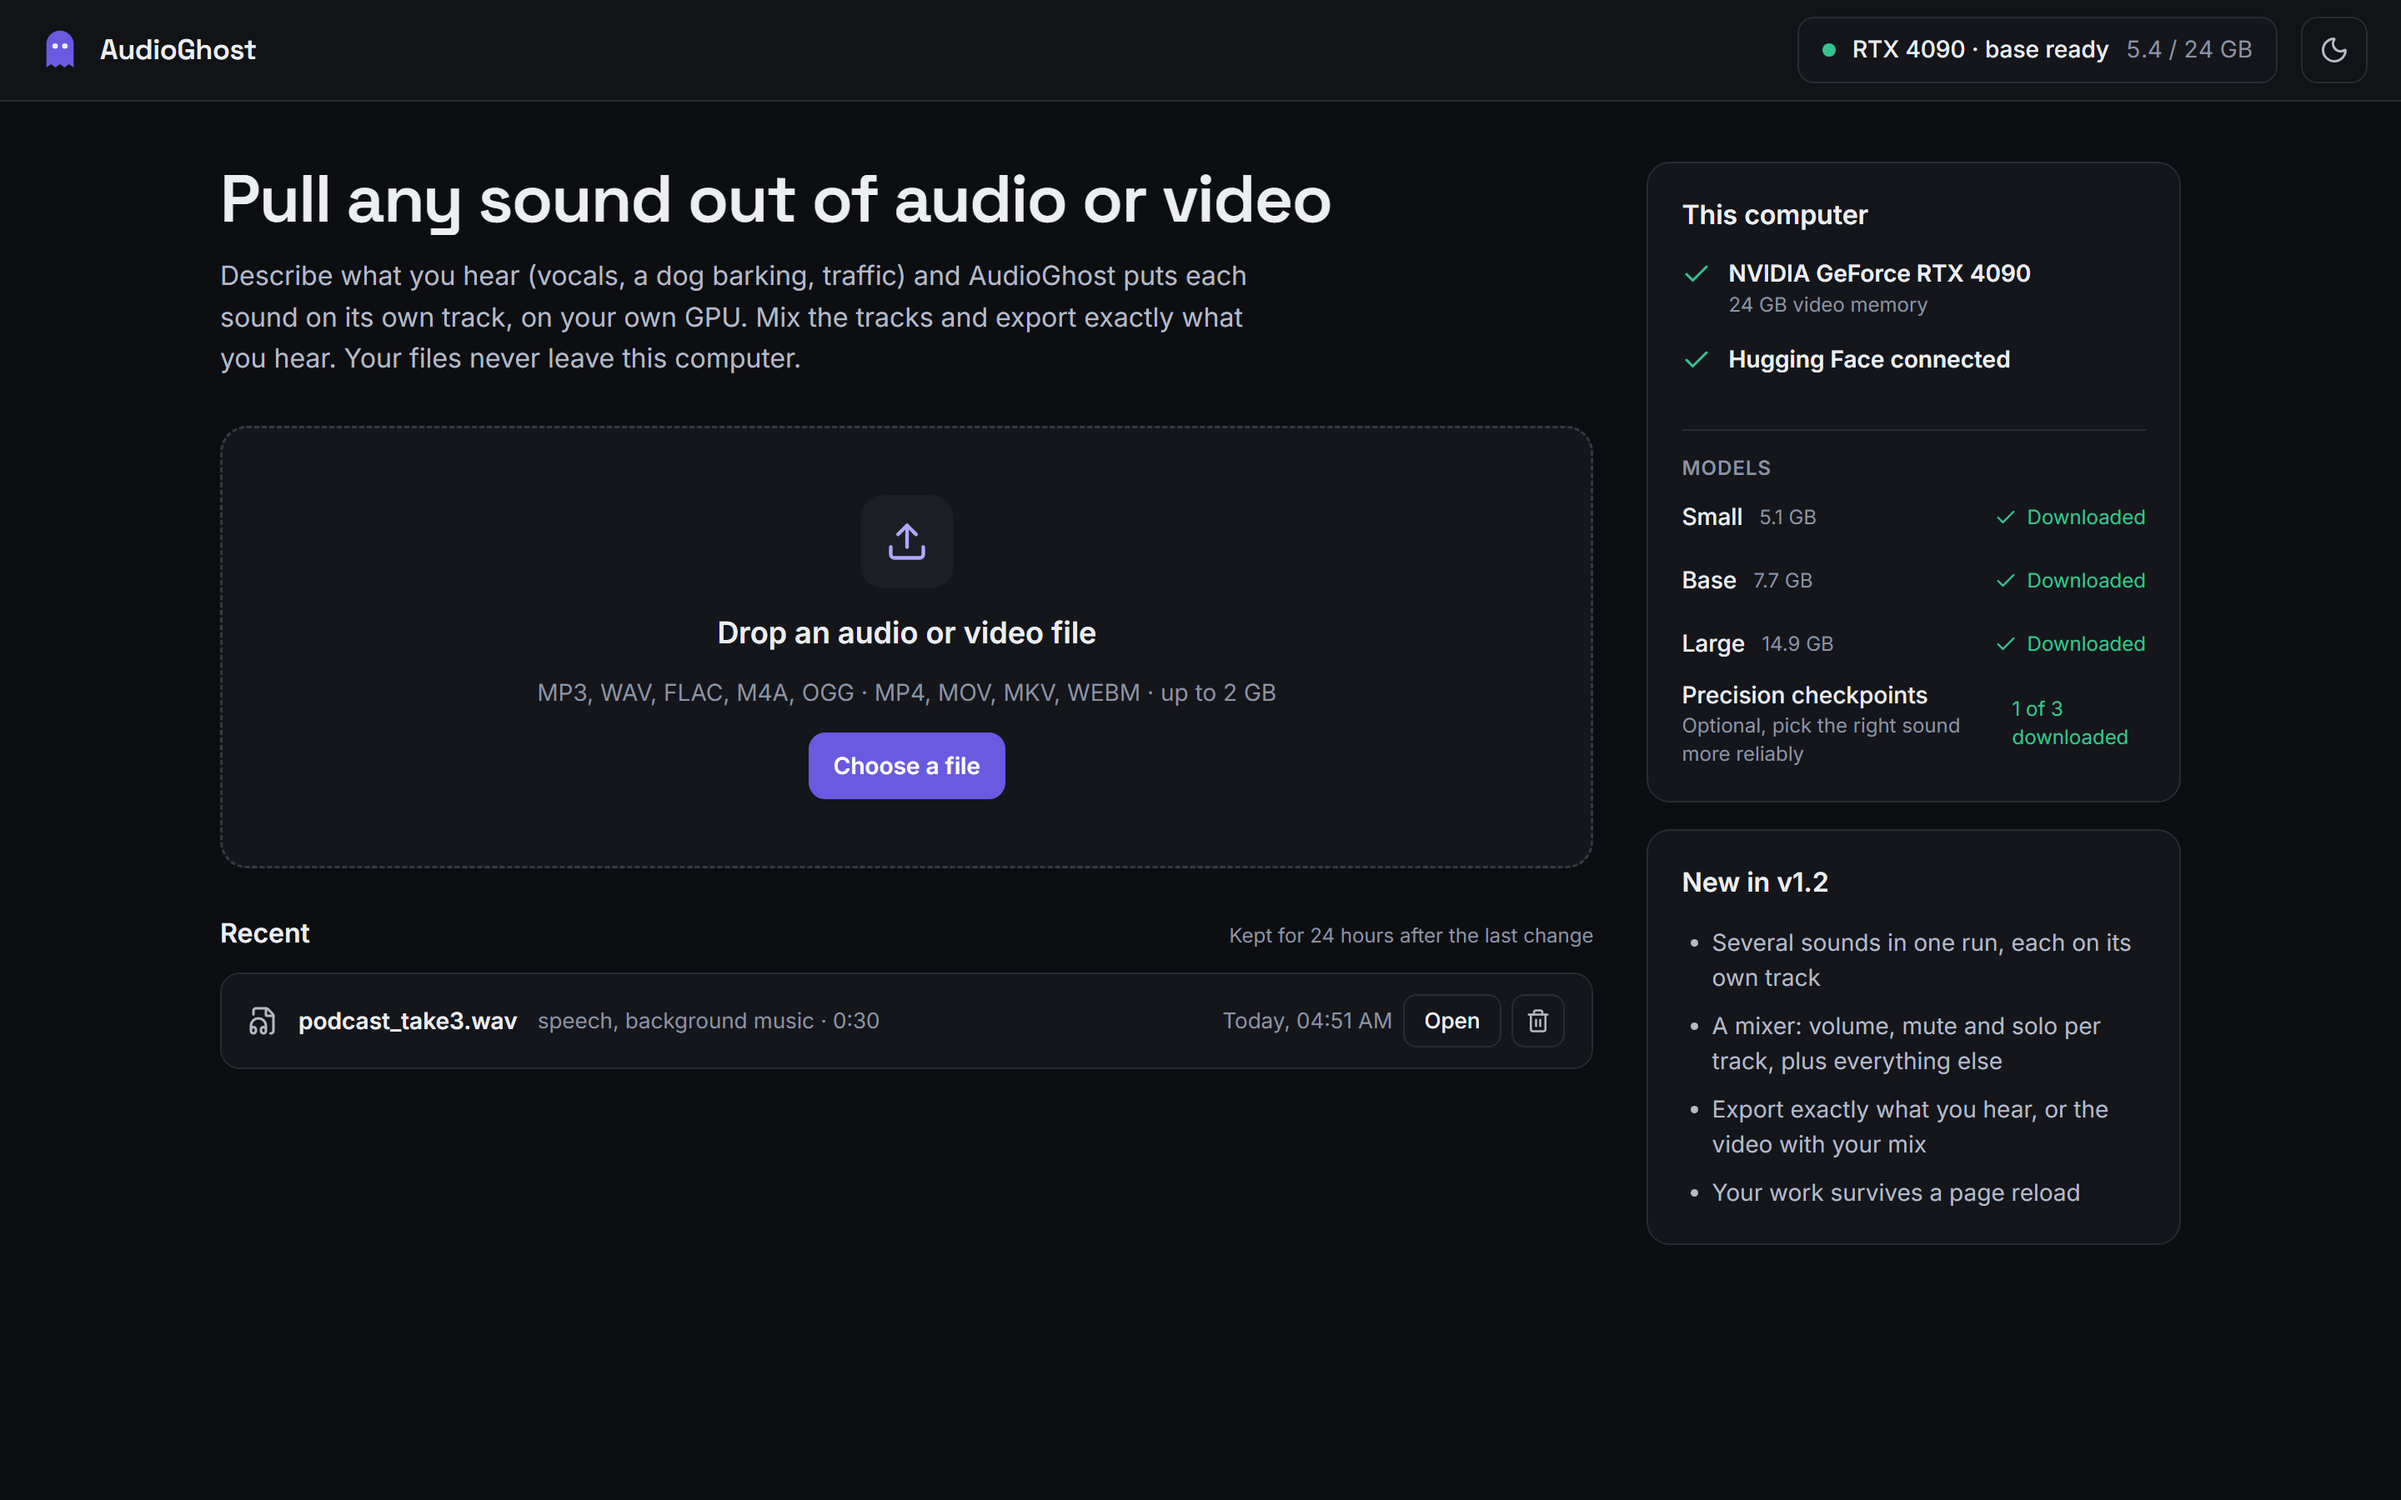
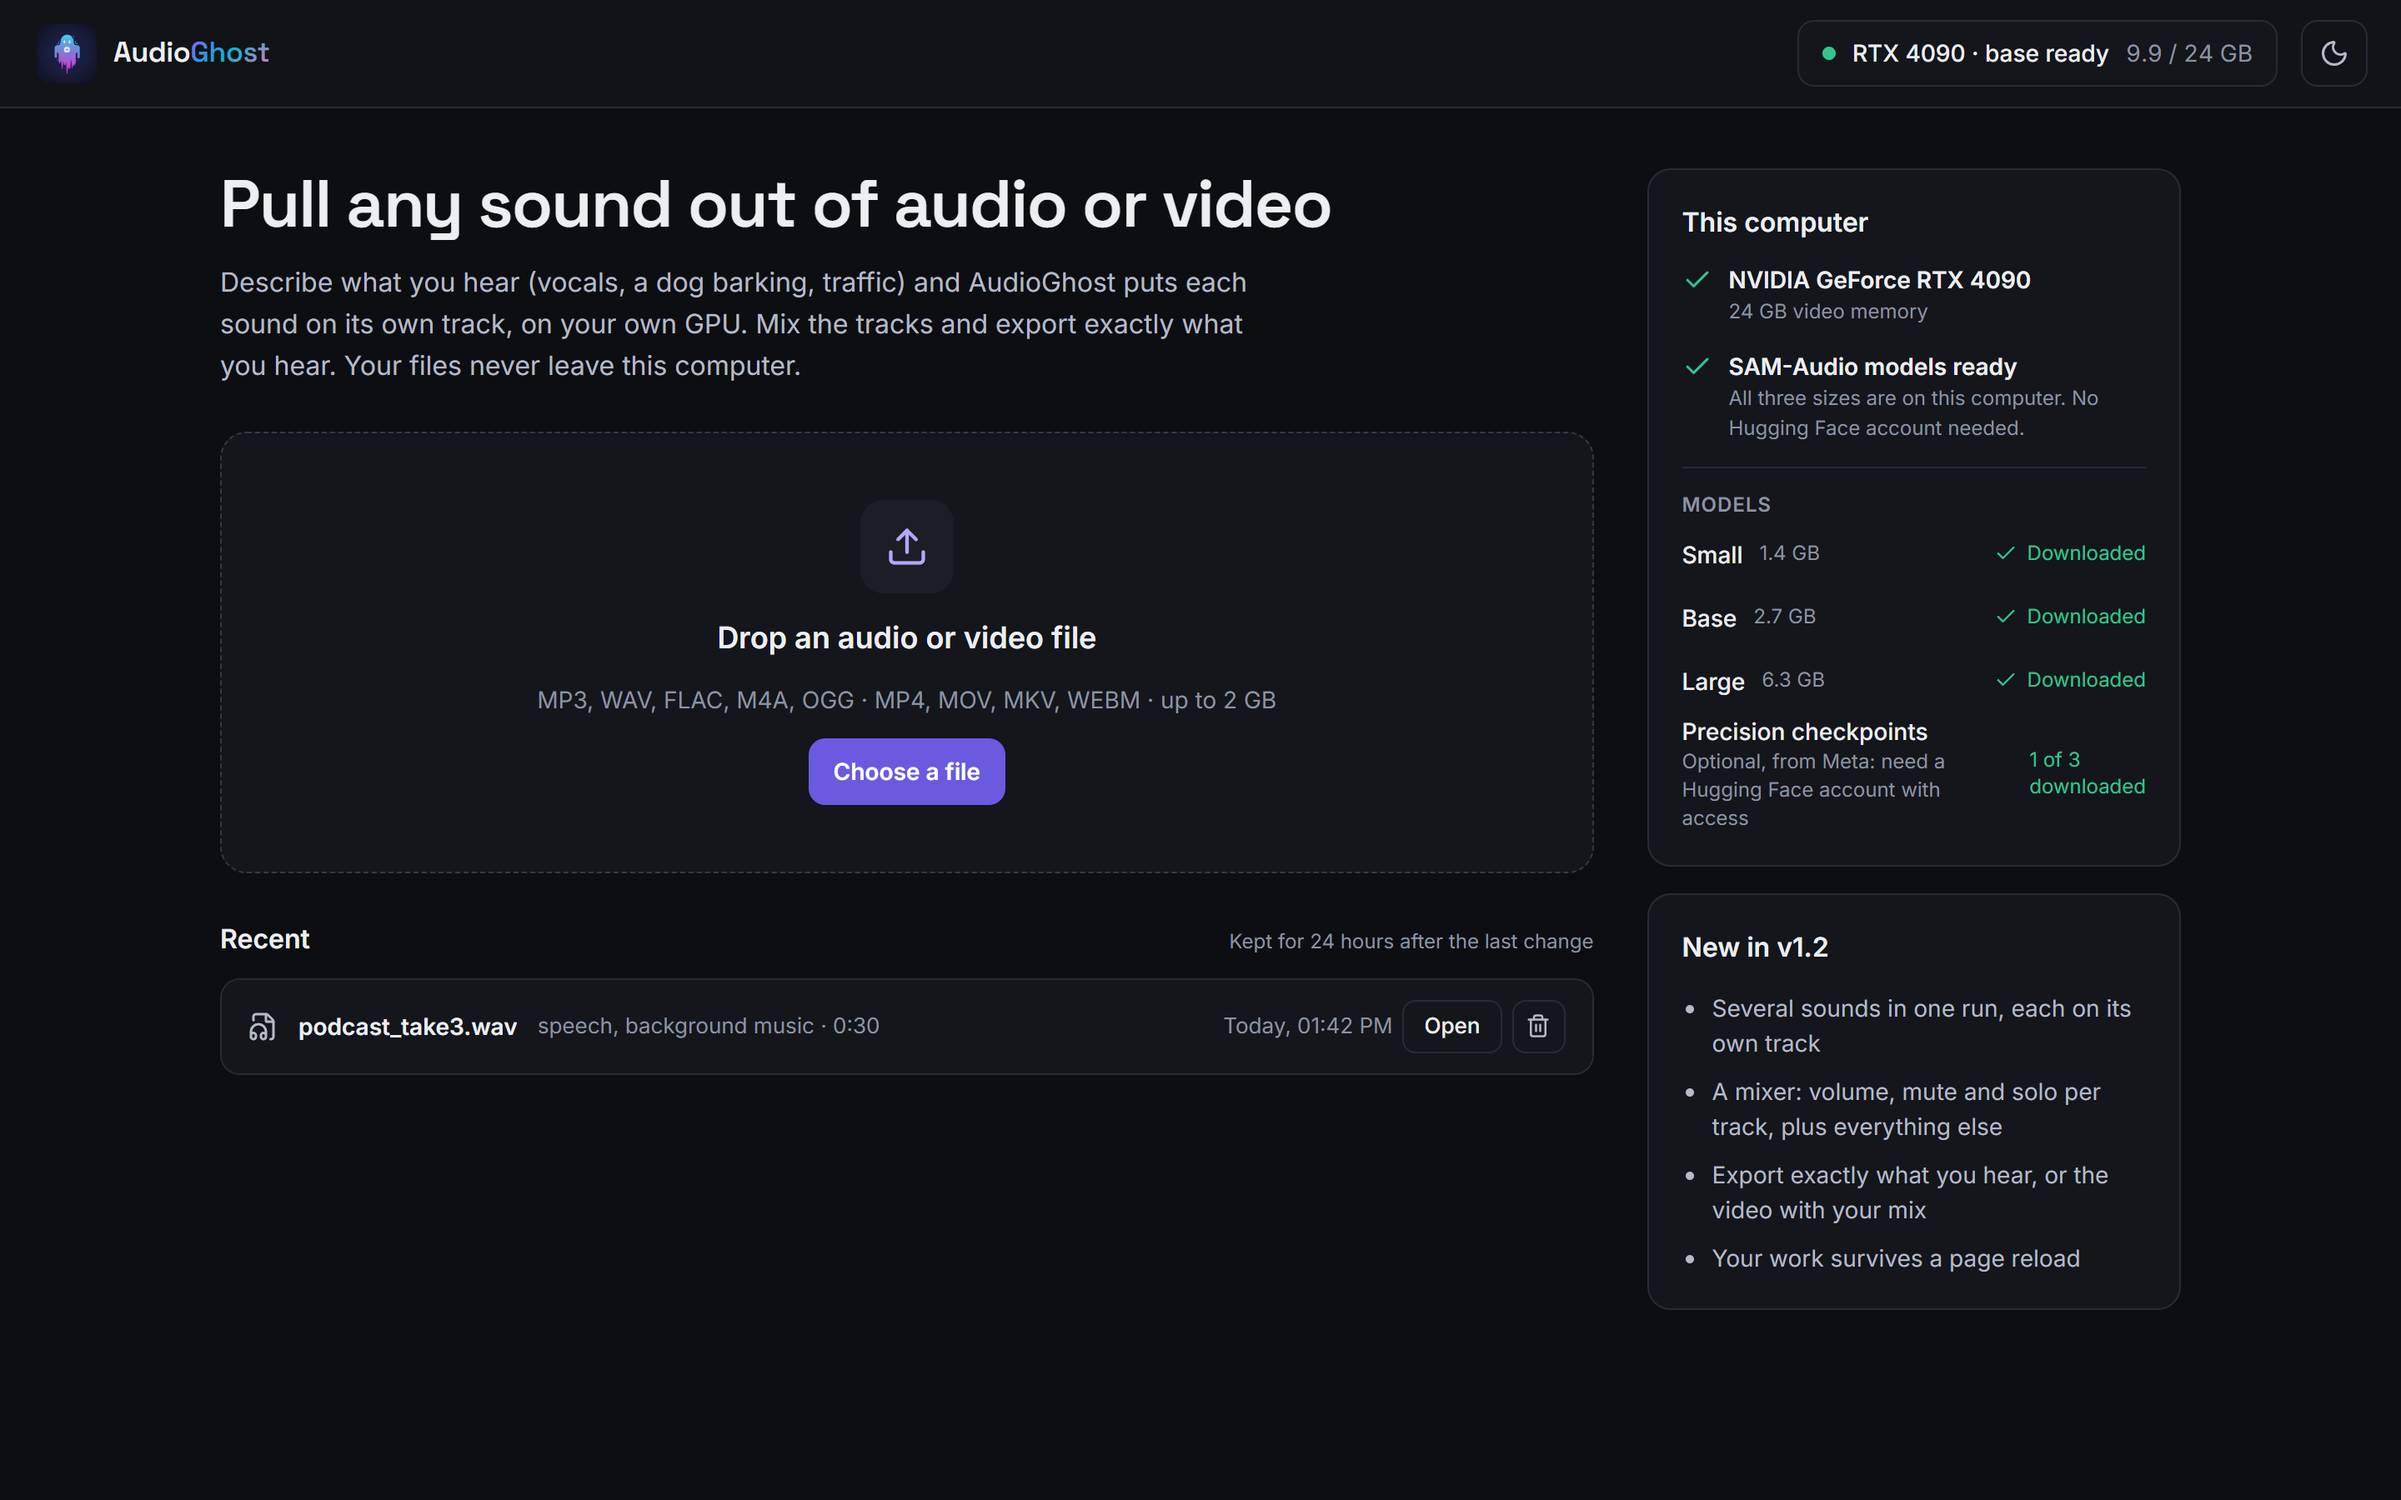
docs: model sizes for a Mac or CPU, new start-screen screenshot
A Mac or a CPU runs in fp32, so it downloads the fp32 files (2.4, 5.0
and 12.2 GB): the start screen shows those sizes there, and the docs say
so. With all three sizes on the computer the license row says that
instead of "download on first use". The README screenshot shows the new
license row in place of the Hugging Face one.

Claude-Session: https://claude.ai/code/session_01JUaA18KC21kPhN1CKR7oVM

diff --git a/frontend/src/components/StartScreen.tsx b/frontend/src/components/StartScreen.tsx
@@ -13,11 +13,12 @@ import { Button, ErrorText, IconButton, ProgressBar, SectionLabel } from "./ui";
 const ACCEPT =
   "audio/*,video/*,.mp3,.wav,.flac,.m4a,.ogg,.opus,.aac,.mp4,.mov,.mkv,.webm,.avi,.m4v,.mpeg";
 
-// Download sizes of AudioGhost's copies (fp16 transformer + the shared codec), in GB of 10^9 bytes.
+// Download sizes of AudioGhost's copies with the shared codec, in GB of 10^9 bytes: the fp16 files
+// on NVIDIA GPUs, the fp32 files on a Mac or a CPU (they run in fp32).
 const MODELS = [
-  { size: "small", label: "Small", gb: "1.4 GB" },
-  { size: "base", label: "Base", gb: "2.7 GB" },
-  { size: "large", label: "Large", gb: "6.3 GB" },
+  { size: "small", label: "Small", fp16: "1.4 GB", fp32: "2.4 GB" },
+  { size: "base", label: "Base", fp16: "2.7 GB", fp32: "5.0 GB" },
+  { size: "large", label: "Large", fp16: "6.3 GB", fp32: "12.2 GB" },
 ];
 
 function Setup({
@@ -36,6 +37,7 @@ function Setup({
   const allModels = MODELS.every((m) => haveModel(m.size));
   const licensed = !!auth?.license_accepted || allModels;
   const device = system?.device;
+  const fp32Files = device?.device === "cpu" || device?.device === "mps";
   const tvCount = MODELS.filter((m) => downloaded.has(`facebook/sam-audio-${m.size}-tv`)).length;
   const workerReady = system?.reachable && system.redis && system.worker && !system.worker_starting;
   return (
@@ -73,9 +75,11 @@ function Setup({
         <div className={styles.grow}>
           <div className={styles.checkTitle}>{licensed ? "SAM-Audio models ready" : "SAM-Audio license"}</div>
           <div className={styles.checkHint}>
-            {licensed
-              ? "Models download on first use. No Hugging Face account needed."
-              : "The models come with Meta's SAM License. Accept it once; then they download on first use, with no account."}
+            {!licensed
+              ? "The models come with Meta's SAM License. Accept it once; then they download on first use, with no account."
+              : allModels
+                ? "All three sizes are on this computer. No Hugging Face account needed."
+                : "Models download on first use. No Hugging Face account needed."}
           </div>
         </div>
         {!licensed && (
@@ -91,7 +95,7 @@ function Setup({
           return (
             <div key={model.size} className={styles.modelRow}>
               <span className={styles.modelName}>{model.label}</span>
-              <span className={styles.small}>{model.gb}</span>
+              <span className={styles.small}>{(fp32Files ? model.fp32 : model.fp16)}</span>
               <span className={`${styles.modelState} ${have ? styles.good : styles.muted}`}>
                 {have ? (
                   <>

diff --git a/README.md b/README.md
@@ -34,7 +34,7 @@ A real field recording ("New Orleans ambience" by cognito perceptu, CC0). AudioG
 <details>
 <summary>Start screen</summary>
 
-![Start screen: drop zone, recent sessions, and a card showing the GPU, Hugging Face access and downloaded models](docs/images/v1.2-start.png)
+![Start screen: drop zone, recent sessions, and a card showing the GPU, the model license and the downloaded models](docs/images/v1.2-start.png)
 
 </details>
 
@@ -227,7 +227,7 @@ Navigate to `http://localhost:3000`
 
 ### 10. Accept the model license
 
-The first time, AudioGhost shows Meta's **SAM License**, which comes with the SAM-Audio weights. Accept it once (the start screen's *Review* button, or when you first press *Separate*). The model then downloads on first use: Small 1.4 GB, Base 2.7 GB, Large 6.3 GB, plus the 0.9 GB text encoder that all sizes share. You need no Hugging Face account.
+The first time, AudioGhost shows Meta's **SAM License**, which comes with the SAM-Audio weights. Accept it once (the start screen's *Review* button, or when you first press *Separate*). The model then downloads on first use: Small 1.4 GB, Base 2.7 GB, Large 6.3 GB, plus the 0.9 GB text encoder that all sizes share. A Mac or a computer without an NVIDIA GPU runs in fp32 and downloads the fp32 files instead: 2.4, 5.0 and 12.2 GB. You need no Hugging Face account.
 
 The models come from [audioghostai](https://huggingface.co/audioghostai), AudioGhost's copies of Meta's weights:
 - **What changed:** the transformer is stored in fp16 (it loads into exactly the values AudioGhost ran before), there is no vision encoder, and the files are safetensors. `model_hub/` builds them.

diff --git a/QUICKSTART.md b/QUICKSTART.md
@@ -71,7 +71,7 @@ npm run dev
 ## 首次使用
 
 1. 不需要 Hugging Face 帳號。第一次會顯示 Meta 的 SAM License（模型權重附帶的授權），在開始頁「This computer」卡片按「Review」或第一次按 Separate 時同意一次即可
-2. 第一次分離會從 AudioGhost 的模型副本（huggingface.co/audioghostai）自動下載模型（Small 1.4 GB / Base 2.7 GB / Large 6.3 GB，另加各尺寸共用的 0.9 GB 文字編碼器），進度會顯示在該軌道上
+2. 第一次分離會從 AudioGhost 的模型副本（huggingface.co/audioghostai）自動下載模型（Small 1.4 GB / Base 2.7 GB / Large 6.3 GB，另加各尺寸共用的 0.9 GB 文字編碼器；Mac 或沒有 NVIDIA 顯卡的電腦用 fp32 執行，會改下載 fp32 檔：2.4 / 5.0 / 12.2 GB），進度會顯示在該軌道上
 3. 電腦裡已經有 Meta 原版模型的話會直接使用，不會重新下載
 4. 只有選用 Meta 的 -tv 精準模型才需要 Hugging Face 帳號：到該模型頁面申請存取，再用「Connect」貼上 Read 權限的 Token
 

diff --git a/CHANGELOG.md b/CHANGELOG.md
@@ -8,7 +8,8 @@
   approval and no token. Meta's SAM License, which comes with the weights, is shown once and accepted in the app
   (`--accept-license` in the CLI).
 - **Smaller downloads, same results.**
-  - Small is 1.4 GB, Base 2.7 GB and Large 6.3 GB, against 5.1, 7.7 and 14.9 GB for Meta's checkpoints.
+  - Small is 1.4 GB, Base 2.7 GB and Large 6.3 GB, against 5.1, 7.7 and 14.9 GB for Meta's checkpoints. A Mac or
+    a CPU runs in fp32 and downloads the fp32 files: 2.4, 5.0 and 12.2 GB.
   - The transformer is stored in fp16, with no vision encoder and the audio codec shared by all sizes, as safetensors.
   - Every parameter loads bit-identically to Meta's checkpoints. bf16 and fp32 runs use an fp32 copy.
   - `model_hub/` builds and publishes the files.
